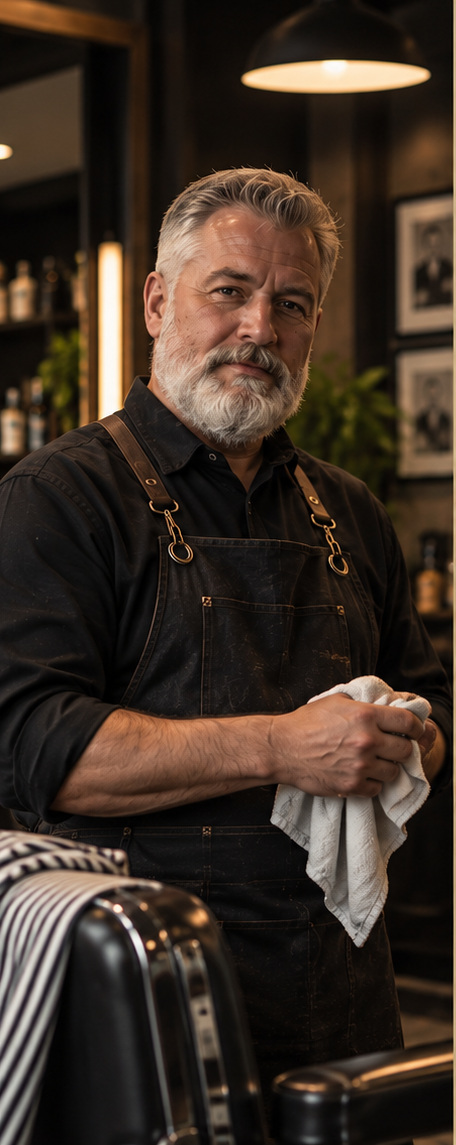
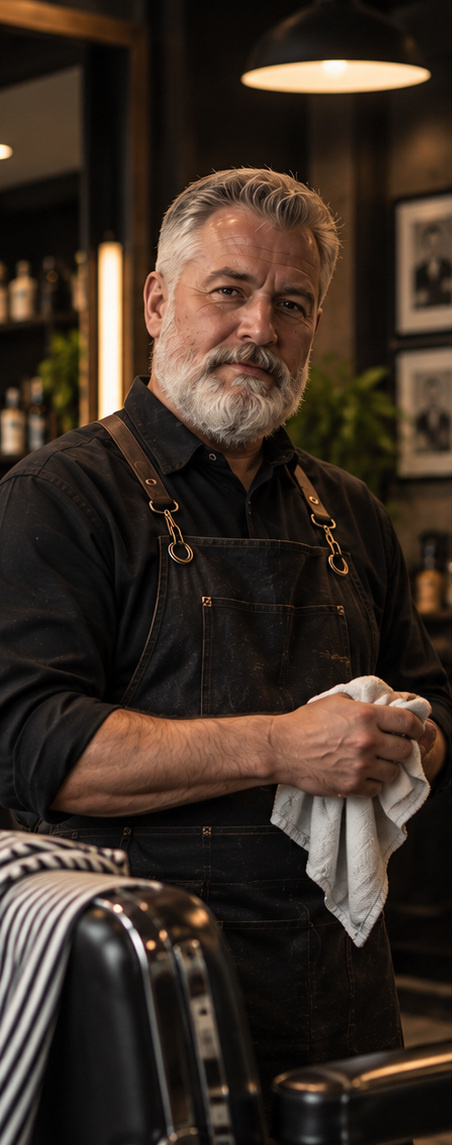
Add files via upload

diff --git a/styles.css b/styles.css
@@ -130,7 +130,7 @@ button,input,select{font:inherit}
 
 .team-grid{display:grid;grid-template-columns:repeat(3,1fr);gap:18px}
 .team-card{border:1px solid rgba(255,255,255,.12);background:#171913}
-.team-card img{height:285px;object-fit:cover;filter:saturate(.8) contrast(1.05)}
+.team-card img{height:360px;object-fit:cover;filter:saturate(.8) contrast(1.05)}
 .team-card div{padding:22px}
 .team-card span{font-size:11px;text-transform:uppercase;letter-spacing:.12em;color:#9ca78a}
 .team-card h3{font-family:"Manrope";font-size:25px;margin:6px 0}
@@ -236,11 +236,12 @@ input,select{width:100%;padding:15px;border:1px solid #d1d1ca;background:#fff;bo
 .hero { background-position: center 35%; }
 .about-image { background-position: center; }
 .team-card img {
-  object-position: center 35%;
+  object-position: center 14%;
   image-rendering: auto;
 }
-.team-card:nth-child(2) img { object-position: center 38%; }
-.team-card:nth-child(3) img { object-position: center 42%; }
+.team-card:nth-child(1) img { object-position: center 13%; }
+.team-card:nth-child(2) img { object-position: center 12%; }
+.team-card:nth-child(3) img { object-position: center 13%; }
 .gallery-grid img {
   image-rendering: auto;
   object-position: center;
@@ -249,4 +250,21 @@ input,select{width:100%;padding:15px;border:1px solid #d1d1ca;background:#fff;bo
 
 @media (max-width: 620px) {
   .hero { background-position: 58% center; }
+}
+
+/* v3 — barber portrait framing */
+.team-card img {
+  height: 430px;
+  object-fit: cover;
+  width: 100%;
+}
+.team-card:nth-child(1) img { object-position: center 8%; }
+.team-card:nth-child(2) img { object-position: center 20%; }
+.team-card:nth-child(3) img { object-position: center 20%; }
+
+@media (max-width: 980px) {
+  .team-card img { height: 280px; }
+}
+@media (max-width: 620px) {
+  .team-card img { height: 360px; }
 }

diff --git a/index.html b/index.html
@@ -154,9 +154,9 @@
         </div>
 
         <div class="gallery-grid">
-          <img src="https://images.unsplash.com/photo-1781455793310-8427c96454c7?auto=format&fit=crop&w=1500&q=88" loading="lazy" alt="Barbershop concept detail" />
-          <img src="https://images.unsplash.com/photo-1759134198561-e2041049419c?auto=format&fit=crop&w=1500&q=88" loading="lazy" alt="Barber working in studio" />
-          <img src="https://images.unsplash.com/photo-1682989356229-a244c8903492?auto=format&fit=crop&w=1500&q=88" loading="lazy" alt="Barber tools" />
+          <img src="assets/gallery-1.png" loading="lazy" alt="Barbershop concept detail" />
+          <img src="assets/gallery-2.png" loading="lazy" alt="Barber working in studio" />
+          <img src="assets/gallery-3.png" loading="lazy" alt="Barber tools" />
           <img src="https://images.unsplash.com/photo-1653875700329-a7c8aca94c95?auto=format&fit=crop&w=1500&q=88" loading="lazy" alt="Modern haircut detail" />
         </div>
       </div>
